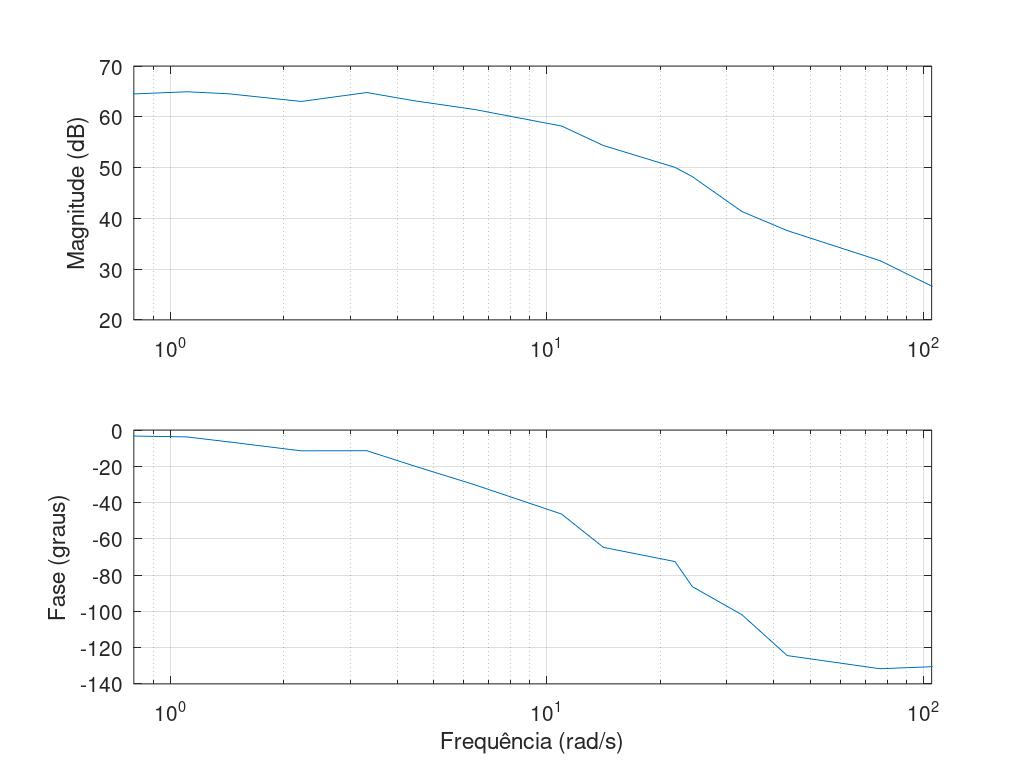
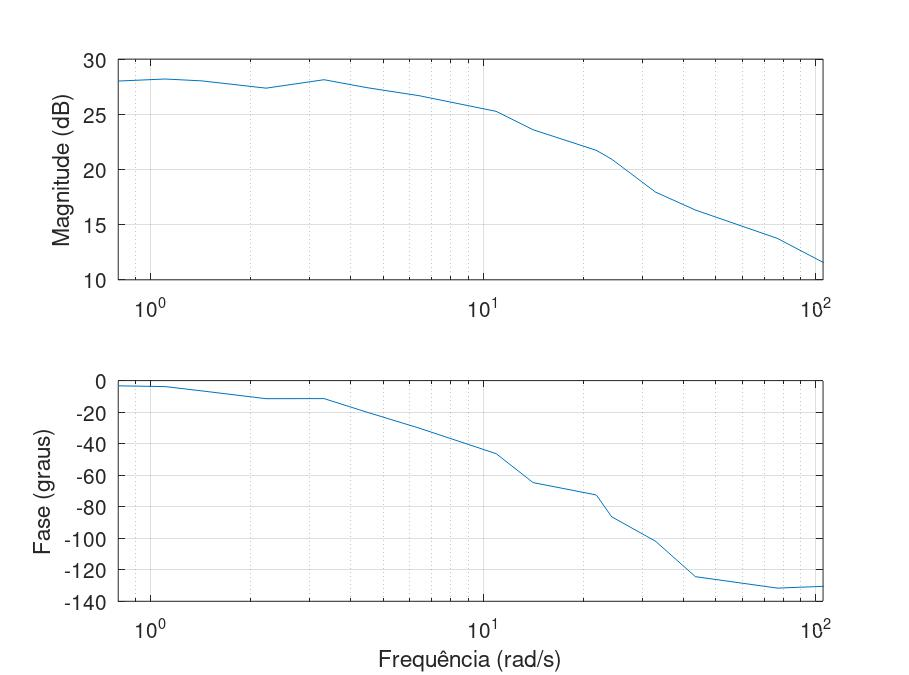
correção no módulo do diagrama de bode

diff --git a/bodeExperimental.m b/bodeExperimental.m
@@ -2,7 +2,7 @@ M = [3.7 4.87 6.55 7.9 11.14 12.21 15.138 18.34 21.60 23.52 25.51 23.36 25.2 25.
 freqs = [25 17.5 10 7.5 6 5 3.5 2.5 1.5 1 0.75 0.5 0.35 0.25 0.175 0.1] * 2 * pi;
 dt = [0.0210 0.030 0.05 0.054 0.062 0.0579 0.08 0.0740 0.082 0.078 0.06 0.09 0.08 0.06 0.077 0.009]/(2*pi);
 freqsReais = [17.25 12.19 6.91 5.24 3.87 3.48 2.247 1.74 1.02 0.707 0.529 0.3544 0.227 0.1762 0.1137 0.07 ]*(2*pi);
-G = 20*log(M);
+G = 20*log10(M);
 fase =(dt.*freqsReais)*360;
 
 subplot(2,1,1);
@@ -17,5 +17,7 @@ xlabel("Frequência (rad/s)");
 ylabel("Fase (graus)");
 grid on
 xlim([.8 105])
-##g = tf([44.3],[0.075589 1])
+##g = tf([44.85],[0.075589 1])
 ##g2 = tf([868.2410319],[1 1736.482064 868.2410319])
+#g3 = tf([14.71444775*14.71444775],[1 2*1*14.71444775 14.71444775*14.71444775])
+#g4 = zpk([],[-6.516 -1.434], 420.33)

diff --git a/plotOutputPythonUnico.m b/plotOutputPythonUnico.m
@@ -7,7 +7,7 @@ pkg load signal
 janela_mediana = 100; % Tamanho da janela para o filtro de mediana
 janela_media = 100; % Tamanho da janela para o filtro de média
 
-tempo_maximo_de_plot = .5;
+tempo_maximo_de_plot = 2;
 idx_tempo_maximo_de_plot = Inf;
 
 for i=1:1:length(tempo)
